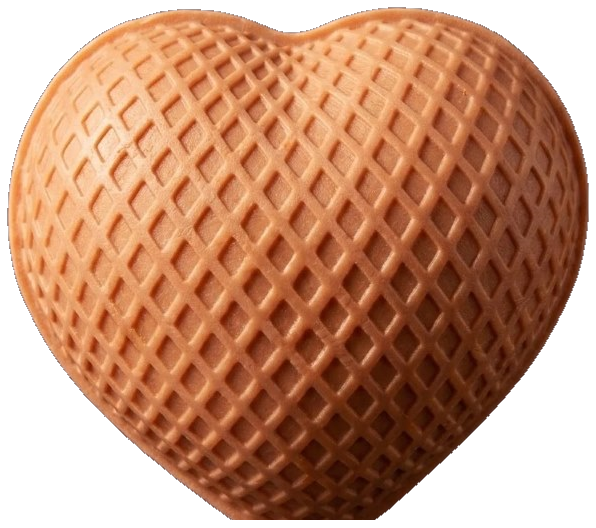
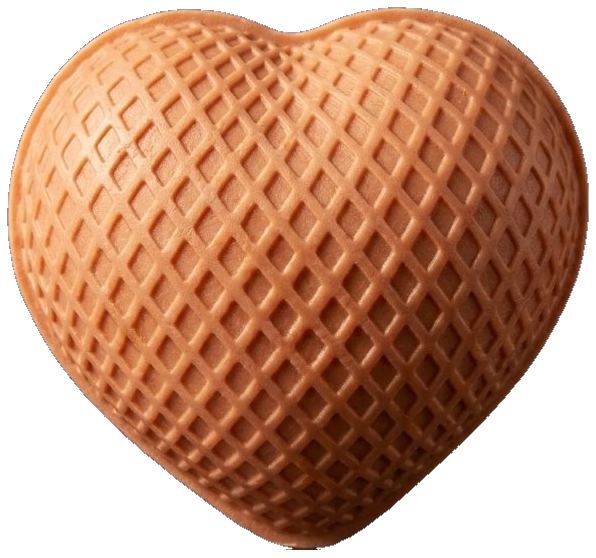
Ponta do coracao cortada, e trio de sabonetes agora e escolhido
1) O recorte decepava a ponta do coracao. A regra cortava na primeira linha abaixo de 25% da largura maxima, o que funciona em pote, que tem base reta e despenca de uma vez, e falha em peca abaulada, que afunila devagar e cruza os 25% muito antes de terminar. Medido: cortava em 649 quando a ponta esta em 679. A regra passa a procurar a virada de sentido: a peca afunila ate tocar a superficie e dali o reflexo VOLTA a alargar, entao o contato e a ultima linha antes do crescimento. Nao depende da forma da peca. 2) O Trio de Sabonetes deixa de ser conjunto fechado. A cliente monta: tres iguais, dois e um, ou um de cada. Como os tres custam 28, qualquer combinacao fecha em 84 e o preco nao muda com a escolha. O que vai para a sacola sao tres itens de sabonete e nao um item trio: assim o servidor cobra cada um pelo preco dele sem regra nova, e o pedido chega dizendo quais sabonetes embalar. Tres iguais viram uma linha de quantidade 3, para a sacola ficar legivel. A troca atualiza no lugar em vez de repintar o bloco: repintar destruia o proprio select que a pessoa acabou de usar, perdendo o foco e fechando a roleta de opcoes no celular. Verificado: tres iguais dao pureza-sabonete x3 e subtotal 84; dois e um dao despertar x2 mais sol x1 e subtotal 84; quantidade 2 dobra para 168; e a linha de essencias acompanha cada troca.

diff --git a/v2/assets/js/loja.js b/v2/assets/js/loja.js
@@ -614,6 +614,129 @@
   }
 
   /* ======================================================================
+     Trio de Sabonetes: a cliente escolhe os três
+
+     Antes era um conjunto fechado, um de cada ritual. Agora ela monta: três
+     iguais, dois e um, ou um de cada. Como os três custam R$ 28, qualquer
+     combinação fecha em R$ 84 e o preço não muda com a escolha.
+
+     O que vai para a sacola são TRÊS itens de sabonete, e não um item
+     "trio". Assim o servidor cobra cada um pelo preço dele sem precisar de
+     regra nova, e o pedido chega dizendo exatamente quais sabonetes
+     embalar, que é o que a produção precisa ler.
+     ====================================================================== */
+
+  function montarTrio() {
+    const alvo = $('[data-cerro="trio-escolha"]');
+    if (!alvo) return;
+
+    /* Os sabonetes da casa, um por ritual, tirados do próprio catálogo. */
+    const sabonetes = CAT.rituais.map((r) => {
+      const s = r.produtos.find((p) => p.tipo === 'sabonete');
+      return { id: s.id, nome: s.nome, preco: s.preco, ritual: r.nomeCurto, essencias: r.essencias, cor: r.cor };
+    });
+
+    /* Começa com um de cada, que era o trio de antes. */
+    let escolha = sabonetes.map((s) => s.id);
+    let qtd = 1;
+
+    function precoTotal() {
+      return escolha.reduce((soma, id) => soma + sabonetes.find((s) => s.id === id).preco, 0) * qtd;
+    }
+
+    function pintar() {
+      alvo.innerHTML = `
+        <div class="trio-escolha">
+          ${escolha.map((id, i) => {
+            const s = sabonetes.find((x) => x.id === id);
+            return `
+            <label class="campo trio-escolha__campo" style="--cor:${esc(s.cor)}">
+              <span class="campo__rotulo">Sabonete ${i + 1}</span>
+              <select data-trio="${i}">
+                ${sabonetes.map((o) => `
+                  <option value="${esc(o.id)}"${o.id === id ? ' selected' : ''}>${esc(o.nome)}</option>`).join('')}
+              </select>
+              <span class="campo__ajuda">${esc(s.essencias)}</span>
+            </label>`;
+          }).join('')}
+        </div>
+
+        <div class="seletor" style="max-width:420px;margin-top:1.6rem">
+          <div class="linha-quantidade">
+            <div class="qtd">
+              <button type="button" data-trio-passo="-1" aria-label="Diminuir quantidade">−</button>
+              <span aria-live="polite">${qtd}</span>
+              <button type="button" data-trio-passo="1" aria-label="Aumentar quantidade">+</button>
+            </div>
+            <div class="total-seletor">
+              <small>Total</small>
+              <span>${dinheiro(precoTotal())}</span>
+            </div>
+          </div>
+          <button class="btn btn--largo" type="button" data-cerro="add-trio">Adicionar à sacola</button>
+        </div>`;
+    }
+
+    /* Atualiza no lugar em vez de repintar.
+     *
+     * Repintar o bloco inteiro destrói o próprio <select> que a pessoa
+     * acabou de usar: ele é recriado, o foco se perde e, em celular, o
+     * teclado ou a roleta de opções fecha sozinha. Como o preço dos três
+     * sabonetes é o mesmo, mudar a escolha nem altera o total: só a linha
+     * de essências abaixo do campo precisa acompanhar. */
+    alvo.addEventListener('change', (ev) => {
+      const sel = ev.target.closest('[data-trio]');
+      if (!sel) return;
+
+      const i = Number(sel.dataset.trio);
+      escolha[i] = sel.value;
+
+      const s = sabonetes.find((x) => x.id === sel.value);
+      const campo = sel.closest('.trio-escolha__campo');
+      campo.style.setProperty('--cor', s.cor);
+      campo.querySelector('.campo__ajuda').textContent = s.essencias;
+
+      const totalNaTela = alvo.querySelector('.total-seletor span');
+      if (totalNaTela) totalNaTela.textContent = dinheiro(precoTotal());
+    });
+
+    alvo.addEventListener('click', (ev) => {
+      const passo = ev.target.closest('[data-trio-passo]');
+      if (passo) {
+        qtd = Math.max(1, Math.min(20, qtd + Number(passo.dataset.trioPasso)));
+        alvo.querySelector('.qtd span').textContent = qtd;
+        alvo.querySelector('.total-seletor span').textContent = dinheiro(precoTotal());
+        return;
+      }
+
+      if (!ev.target.closest('[data-cerro="add-trio"]')) return;
+
+      /* Três iguais viram uma linha de quantidade 3, não três linhas de 1:
+         a sacola fica legível e a conta dá no mesmo. */
+      const contagem = {};
+      escolha.forEach((id) => { contagem[id] = (contagem[id] || 0) + 1; });
+
+      Object.entries(contagem).forEach(([id, vezes]) => {
+        const s = sabonetes.find((x) => x.id === id);
+        Sacola.adicionar({
+          id,
+          nome: s.nome,
+          ritual: s.ritual,
+          detalhe: 'Do Trio de Sabonetes',
+          preco: s.preco,
+          foto: '',
+          qtd: vezes * qtd,
+        });
+      });
+
+      const nomes = escolha.map((id) => sabonetes.find((s) => s.id === id).nome);
+      avisar('Trio adicionado: ' + nomes.join(', '));
+    });
+
+    pintar();
+  }
+
+  /* ======================================================================
      Seletor de compra (páginas de ritual)
      ====================================================================== */
 
@@ -1385,6 +1508,7 @@
     preencherConfig();
     montarGradeRituais();
     montarPresente();
+    montarTrio();
     montarPecasPresente();
     montarCompraPresente();
     montarSeletor();

diff --git a/v2/trio-de-sabonetes.html b/v2/trio-de-sabonetes.html
@@ -38,41 +38,11 @@
           qual essência combina com você.
         </p>
 
-        <ul style="list-style:none;padding:0;margin:2rem 0;display:grid;gap:.9rem">
-          <li style="border-left:2px solid var(--despertar);padding-left:1.2rem">
-            <strong>Brisa Rosada</strong><br>
-            <span style="font-size:.88rem;color:var(--terra-suave)">Romã, Pitanga e Hibisco · argila rosa</span>
-          </li>
-          <li style="border-left:2px solid var(--pureza);padding-left:1.2rem">
-            <strong>Toque de Algodão</strong><br>
-            <span style="font-size:.88rem;color:var(--terra-suave)">Baunilha e Sândalo · argila branca</span>
-          </li>
-          <li style="border-left:2px solid var(--sol);padding-left:1.2rem">
-            <strong>Frescor do Amanhecer</strong><br>
-            <span style="font-size:.88rem;color:var(--terra-suave)">Copaíba e Capim-Limão · argila vermelha</span>
-          </li>
-        </ul>
-
-        <div class="seletor" style="max-width:420px">
-          <div class="linha-quantidade">
-            <div class="qtd">
-              <button type="button" data-passo="-1" aria-label="Diminuir quantidade">−</button>
-              <span data-cerro="qtd-simples" aria-live="polite">1</span>
-              <button type="button" data-passo="1" aria-label="Aumentar quantidade">+</button>
-            </div>
-            <div class="total-seletor">
-              <small>Total</small>
-              <span data-cerro="total-simples">R$ 84,00</span>
-            </div>
-          </div>
-
-          <button class="btn btn--largo" type="button"
-                  data-cerro="add-simples"
-                  data-id="trio-sabonetes"
-                  data-nome="Trio de Sabonetes"
-                  data-detalhe="Um sabonete de cada ritual, 3 × 80 g"
-                  data-preco="84">Adicionar à sacola</button>
-        </div>
+        <!-- Os três sabonetes agora são escolhidos, não impostos. Pode levar
+             um de cada, dois iguais e um diferente, ou três do mesmo. Como
+             os três custam R$ 28, qualquer combinação fecha em R$ 84 e o
+             preço não muda com a escolha. -->
+        <div data-cerro="trio-escolha"></div>
       </div>
 
       <!-- Sem foto do trio ainda: montamos o conjunto com um close de cada

diff --git a/v2/assets/css/estilo.css b/v2/assets/css/estilo.css
@@ -1263,3 +1263,11 @@ button, input, select, textarea { font: inherit; color: inherit; }
   .entrega__dupla { grid-template-columns: 1fr; }
   .campo--curto input { width: 100%; }
 }
+
+/* Escolha dos três sabonetes */
+.trio-escolha { display: grid; gap: .9rem; margin: 2rem 0 0; }
+.trio-escolha__campo {
+  margin: 0; padding-left: 1.1rem;
+  border-left: 2px solid var(--cor, var(--barro));
+}
+.trio-escolha__campo select { width: 100%; }
